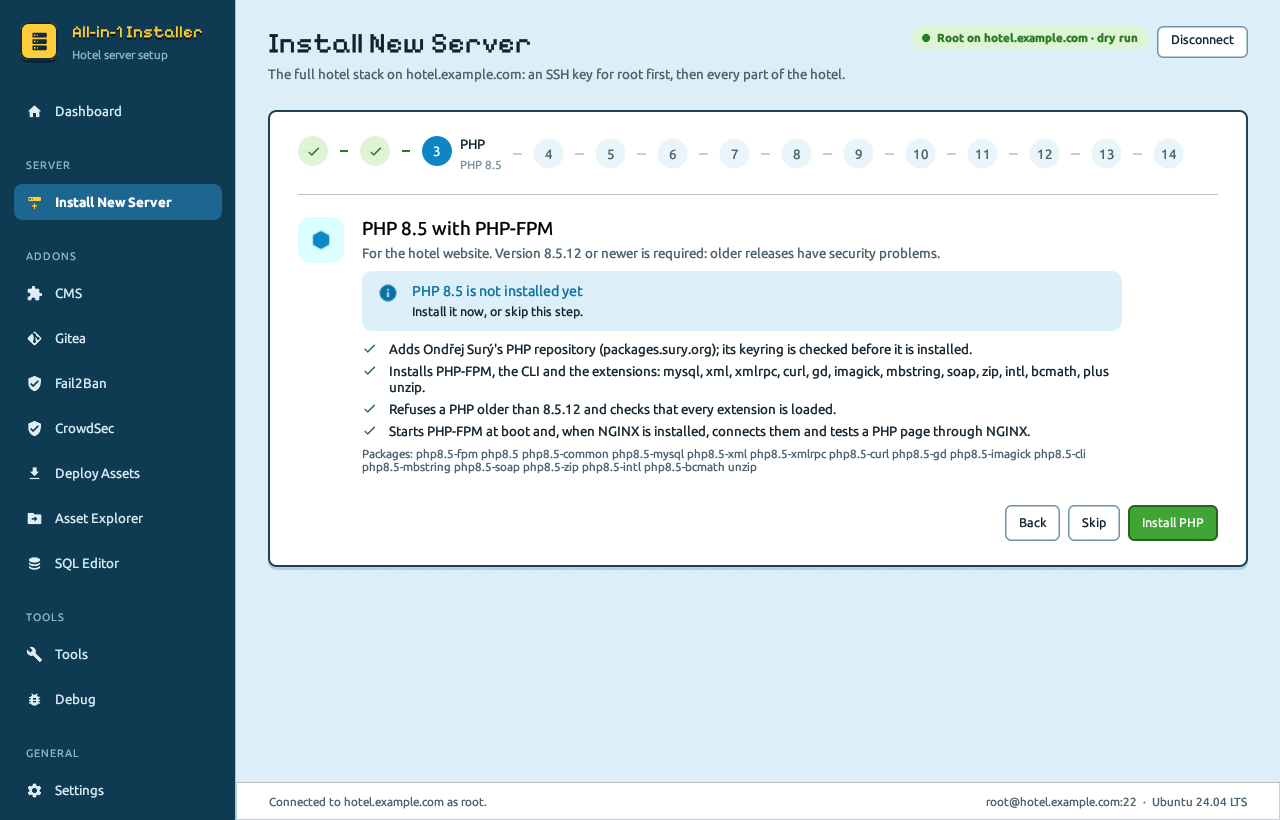
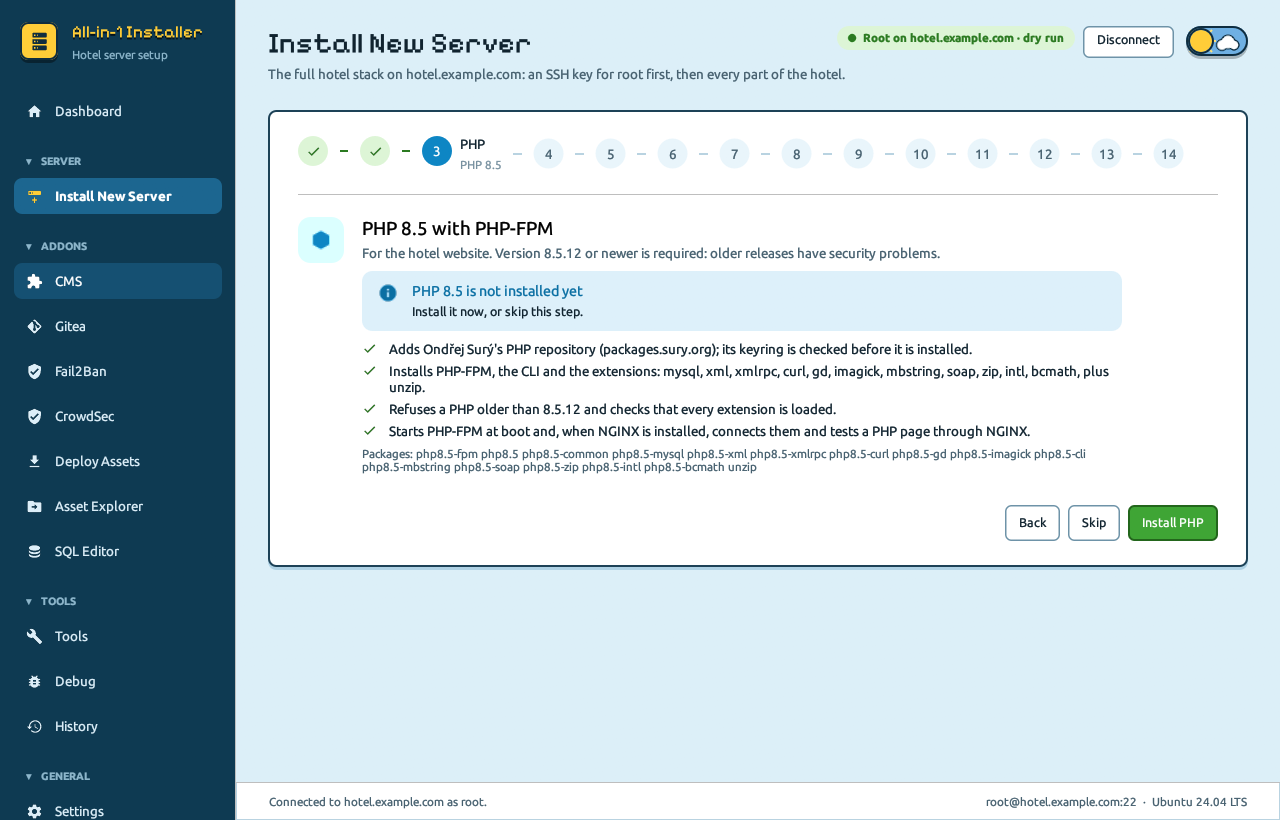
README: screenshots of 2.0.1, a quick start and step numbers like the window's
Every screenshot is made again with the 2.0.1 release, in English, from a neutral
folder with sample servers (no local paths): the day / night switch, the folding
sidebar, History and the health check are in them now.

The README gains "At a glance", "Quick start" and a table of contents; the
"Status / Step n (done)" log becomes "Install New Server, step by step" with real
headings, numbered like the wizard (SSH key is step 1); the day / night switch is
described, and the screenshot section lists every page and shows an example.

diff --git a/README.md b/README.md
@@ -29,7 +29,9 @@ are what the server prints, and what you paste into a question.
 
 **Settings → Look** switches between this **Hotel** look and the **Professional** look of the All-in-1 Converter
 (indigo, soft cards). It is stored in `configuration/settings.json` and applies at the next start; **Restart
-now** starts the installer again right away (it waits while a step runs). Light or dark follows the system in both.
+now** starts the installer again right away (it waits while a step runs). Both looks come in day and night: the
+switch at the top right (a sun with a cloud, or a moon with stars) changes it at once, and **Settings → Day or night**
+also has **Follow the system**, the default.
 
 ![Dashboard](public/docs/screenshots/dashboard.png)
 
@@ -46,6 +48,42 @@ against the branches chosen in **Settings → Repository branches**. A component
 or Update AtomCMS) with its question and progress there. Octane and Octane-Renderer are updated and built together,
 so both rows run Update Octane. AtomCMS gets a row of its own once it is installed.
 
+## At a glance
+
+- **One program, nothing to install**: one `.exe` for Windows and one file for Linux, with fonts, translations and
+  the client images inside. It updates itself when a new release is out.
+- **The whole server in one wizard**: SSH key, NGINX, PHP 8.5, MariaDB 12.3, Node.js, the Polaris / Octane clones,
+  the emulator as a service, Traefik with Let's Encrypt (and Cloudflare), the Octane client, hardening and SSH keys
+  only. Every step says what it will do first, and can be run again.
+- **Addons**: AtomCMS, EpicNext or your own CMS, Gitea, Fail2Ban, CrowdSec, Deploy Assets, an Asset Explorer and a
+  SQL Editor over the SSH tunnel.
+- **Running the hotel**: restarts, updates of the emulator, Octane, AtomCMS and the containers, database backup and
+  import (also PlusEMU), live server status, the emulator's wired CPU, an SSH terminal in the window, a **Health
+  check** with a fix for each problem, and a **History** of every run with its log.
+- **Safe to try**: `--dry-run` shows every command a step would send, without a server. The commands are the C#
+  installer's own, checked byte for byte.
+
+## Quick start
+
+1. Download `all-in-1-installer-windows-x64.exe` or `all-in-1-installer-linux-x64` from the
+   [releases](https://github.com/SimoLeoLife/All-in-1-installer/releases) and start it (on Linux: `chmod +x` first).
+2. Log in to your server: its address, `root` (or a user with sudo) and the password or an SSH key.
+3. **Install New Server** and follow the steps. Each one explains what it does; **Skip** leaves it out.
+4. Optional: a CMS, Gitea, Fail2Ban or CrowdSec under **ADDONS**, then **Deploy Assets** for the game's files.
+5. Afterwards **Tools** runs the hotel: **Health check** first when something seems wrong.
+
+To look around first: `all-in-1-installer --dry-run` logs in to nothing and only shows the commands.
+
+## Contents
+
+- [Requirements](#requirements)
+- [Install New Server, step by step](#install-new-server-step-by-step)
+- [Addons](#addons): [CMS](#cms), [Gitea](#gitea), [Fail2Ban](#fail2ban), [CrowdSec](#crowdsec),
+  [Deploy Assets](#deploy-assets), [Asset Explorer](#asset-explorer), [SQL Editor](#sql-editor)
+- [Settings](#settings) · [Debug](#debug) · [Tools](#tools) · [Health check and History](#health-check-and-history)
+- [Updating the installer itself](#updating-the-installer-itself) · [Building](#building) ·
+  [Project layout](#project-layout) · [Credits](#credits)
+
 ## Requirements
 
 **On your computer** (Windows 10/11 x64 or Linux x64): nothing. The installer is one file, with everything it
@@ -57,9 +95,9 @@ needs inside (fonts, the client images for Deploy Assets). Download `all-in-1-in
 root or as a user with sudo rights. Everything else (NGINX, PHP, MariaDB, Java, Node.js, Docker ...) is installed
 by the wizard.
 
-## Status
+## Install New Server, step by step
 
-**Step 1 – Logging in** (done)
+### Logging in (before the steps)
 
 When the program starts, it asks for the server first. **One login is used for everything**: Install New Server,
 the addons and the tools. It stays open until you close the program or the server drops the connection.
@@ -106,7 +144,7 @@ Every step uses `Server::run_as_root` (`source/crates/remote/src/server.rs`), wh
 or through sudo. Files copied over SFTP into folders only root can open (the database backups) go through a private
 staging folder in `/tmp` when the login is not root.
 
-**Step 2 – SSH key for root** (done)
+### Step 1 – SSH key for root
 
 **Install New Server** starts with the SSH key step, which puts a key in `/root/.ssh/authorized_keys`, so the next
 login can be root with that key. Choose one:
@@ -144,7 +182,7 @@ For a generated key it then opens a second SSH session **as root with the new ke
 If that fails, it reports why (for example `PermitRootLogin no` in sshd). The second session only
 trusts the host key seen during the first login.
 
-### The configuration directory
+#### The configuration directory
 
 `configuration/` is created next to the installer (falling back to
 `%LOCALAPPDATA%\All-in-1 Installer\configuration` or `~/.local/share/All-in-1 Installer/configuration`
@@ -171,7 +209,7 @@ Log in later with the generated key (ssh asks for the key password):
 ssh -i "configuration/keys/<server>/id_ed25519" root@<server>
 ```
 
-**Step 3 – NGINX mainline** (done)
+### Step 2 – NGINX mainline
 
 After the SSH key, **Next: NGINX** installs the web server:
 
@@ -208,7 +246,7 @@ Before every `apt-get update` the installer checks the **server clock** against 
 on, because apt refuses repository files that seem to come from the future
 (`Release file ... is not valid yet`).
 
-**Step 4 – PHP 8.5 with PHP-FPM** (done)
+### Step 3 – PHP 8.5 with PHP-FPM
 
 After NGINX, **Next: PHP** installs:
 
@@ -242,7 +280,7 @@ location ~ \.php$ {
 }
 ```
 
-**Step 5 – MariaDB 12.3** (done)
+### Step 4 – MariaDB 12.3
 
 After PHP, **Next: MariaDB** installs the database:
 
@@ -292,7 +330,7 @@ cms_password=...
 Running the step again reuses these passwords. If the users exist on the server but there is no saved file
 (e.g. from another PC), new passwords are set and saved. The step says so before you install.
 
-**Step 6 – Node.js 26, Composer and Yarn** (done)
+### Step 5 – Node.js 26, Composer and Yarn
 
 After MariaDB, **Next: Node.js** installs the build tools, following your commands:
 
@@ -316,7 +354,7 @@ The step uses and tests the tools it installs in `/usr/bin`, also when an older 
 as a warning with their paths, so typing `node` really runs Node.js 26 after you remove them; the installer
 does not delete them itself.
 
-**Steps 7–9 – Clone Polaris, Octane and Octane-Renderer** (done)
+### Steps 6–8 – Clone Polaris, Octane and Octane-Renderer
 
 | Step | Repository | Folder on the server |
 |------|------------|----------------------|
@@ -344,7 +382,7 @@ has, because Polaris writes it as `dev` and Octane and the Renderer as `Dev`.
 
 ![Clone](public/docs/screenshots/clone-intro.png)
 
-**Step 10 – Build and run the Polaris emulator** (done)
+### Step 9 – Build and run the Polaris emulator
 
 After the clones, **Next: Emulator** builds `/var/www/emulator/Emulator` and runs it as a service. On the intro
 page you choose:
@@ -402,7 +440,7 @@ tail -f /var/log/emu/emulator.log  # follow the log
 cd /var/www/emulator/Emulator && sudo -u emulator ./build.sh && systemctl restart emulator   # rebuild
 ```
 
-**Step 11 – Web access: Docker and Traefik** (done)
+### Step 10 – Web access: Docker and Traefik
 
 The step asks three questions:
 
@@ -459,7 +497,7 @@ cd /opt/traefik && docker compose logs -f traefik        # Traefik log (certific
 cd /opt/traefik && docker compose pull && docker compose up -d   # update Traefik
 ```
 
-**Step 12 – Octane client** (done)
+### Step 11 – Octane client
 
 Uses the address from the web access step; nothing to fill in. For `https://example.com`:
 
@@ -511,7 +549,7 @@ nano /var/www/Octane/public/configuration/ui-config.json   # e.g. hotel.name
 /var/www/Octane/build.sh                                   # rebuild dist/ with it
 ```
 
-**Step 13 – Harden the server** (done)
+### Step 12 – Harden the server
 
 Nothing to fill in.
 
@@ -565,7 +603,7 @@ Nothing to fill in.
 5. **Log in again**: a new SSH login through the firewall proves you are not locked out (the current session stays
    open; if it fails, the step says so and `ufw disable` undoes it).
 
-**Step 14 – SSH login: keys only (optional)**
+### Step 13 – SSH login: keys only (optional)
 
 After Harden. You choose: **Keep password login** (changes nothing, or allows passwords again), or **Turn password
 login off: only SSH keys can log in**. A warning says what that means: lose your key and the only way in is the
@@ -585,7 +623,7 @@ reload ssh.
 
 ![SSH login step](public/docs/screenshots/ssh-login-step.png)
 
-**Completed – upload the assets** (done)
+### Completed – upload the assets
 
 After the last step (done or skipped) the wizard shows **Successfully completed** (or *Completed, with steps to look
 at* when a step was skipped or failed), with what every step did, and then:
@@ -1321,10 +1359,18 @@ no output, so the steps take the path of a fresh server. Use it to read exactly 
 ### Screenshots
 
 `AIO_SCREENSHOT=<file.png>` saves one screenshot of the window and closes it; `AIO_SCREENSHOT_PAGE` picks the page
-(`dashboard`, `install`, `cms`, `gitea`, `fail2ban`, `crowdsec`, `deploy`, `explorer`, `sql`, `debug`, `tools`, `status`,
-`monitor`, `terminal`, `settings`, `about`, `login`), `AIO_SCREENSHOT_CONNECT=1` logs in to the dry run first,
-`AIO_SCREENSHOT_THEME=dark|light`, `AIO_SCREENSHOT_LOOK=hotel|professional` and `AIO_SCREENSHOT_LANG=<code>` set the
-rest. The pictures in `public/docs/screenshots` are made this way.
+(`dashboard`, `install`, `cms`, `customcms`, `epicnext`, `gitea`, `fail2ban`, `crowdsec`, `deploy`, `explorer`, `sql`,
+`debug`, `tools`, `status`, `doctor`, `history`, `monitor`, `terminal`, `settings`, `about`, `login`),
+`AIO_SCREENSHOT_STEP=<n>` the n-th step of that page's wizard, `AIO_SCREENSHOT_CONNECT=1` logs in to the dry run
+first (the health check then finds a sample server), and `AIO_SCREENSHOT_THEME=dark|light`,
+`AIO_SCREENSHOT_LOOK=hotel|professional` and `AIO_SCREENSHOT_LANG=<code>` set the rest. For example:
+
+```bash
+AIO_SCREENSHOT=install.png AIO_SCREENSHOT_PAGE=install AIO_SCREENSHOT_STEP=2 AIO_SCREENSHOT_CONNECT=1 all-in-1-installer
+```
+
+The pictures in `public/docs/screenshots` are made this way with the latest release, in English and the light theme
+(the dark ones in the dark theme), from a folder whose `configuration/settings.json` lists a few sample servers.
 
 ### Parity with the C# installer
 
